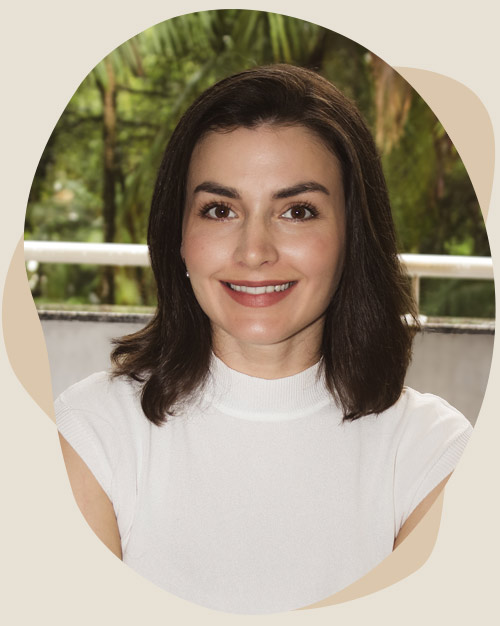
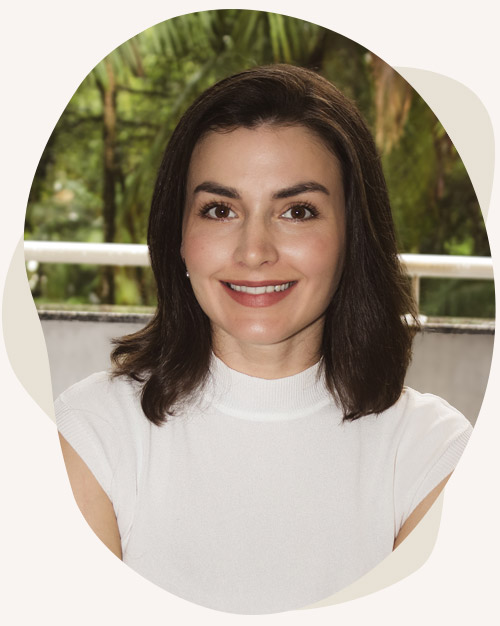
Update

Changed region(s): [[0.0, 0.0, 1.0, 1.0]]

diff --git a/index.html b/index.html
@@ -353,29 +353,29 @@
                     </div>
                     <div class="feed-container">
                         <div class="post">
-                            <a id="Post_evitar_situacoes" href="https://www.instagram.com/p/C6JQooOL71t" target="_blank" rel="noopener noreferrer nofollow" title="Post instagram terapia - Se você sofre de ansiedade provavelmente já evitou alguma dessas situações">
-                                <img src="instagram_posts/evitar_situacoes_ansiedade_terapia.jpg" alt="Se você sofre de ansiedade provavelmente já evitou alguma dessas situações" title="Post instagram terapia - Se você sofre de ansiedade provavelmente já evitou alguma dessas situações">
+                            <a id="Post_ansiedade_social" href="https://www.instagram.com/p/DHlO9xEOfz7" target="_blank" rel="noopener noreferrer nofollow" title="Post instagram terapia - Parece antipatia, mas pode ser Ansiedade Social">
+                                <img src="instagram_posts/ansiedade_social_terapia.jpg" alt="Parece antipatia, mas pode ser Ansiedade Social" title="Post instagram terapia - Parece antipatia, mas pode ser Ansiedade Social">
                                 <div class="post-caption">
-                                    <p>Essas são apenas algumas situações comuns em que a ansiedade pode impactar a vida das pessoas, mas é importante lembrar que cada indivíduo pode ter experiências únicas e desafios específicos relacionados à ansiedade....</p>
-                                    <a id="Post_evitar_situacoes" href="https://www.instagram.com/p/C6JQooOL71t" class="btn btn--primary" target="_blank" rel="noopener noreferrer nofollow" title="Continue lendo no Instagram">Continue lendo no Instagram</a>
+                                    <p>Atitudes que podem parecer antipatia ou indiferença muitas vezes podem ser por causa da ansiedade social. Atender uma ligação, responder mensagens ou cumprimentar alguém pode ser um grande desafio...</p>
+                                    <a id="Post_ansiedade_social" href="https://www.instagram.com/p/DHlO9xEOfz7" class="btn btn--primary" target="_blank" rel="noopener noreferrer nofollow" title="Continue lendo no Instagram">Continue lendo no Instagram</a>
                                 </div>
                             </a>
                         </div>
                         <div class="post">
-                            <a id="Post_respiracao_diafragmatica" href="https://www.instagram.com/p/C6D8w6BrxYs/" target="_blank" rel="noopener noreferrer nofollow" title="Post instagram terapia - Respiração Diafragmática">
-                                <img src="instagram_posts/respiracao_diafragmatica_terapia.jpg" alt="Respiração Diafragmática" title="Post instagram terapia - Respiração Diafragmática">
+                            <a id="Post_ataque_de_panico" href="https://www.instagram.com/p/DHEN_G-uRXz/" target="_blank" rel="noopener noreferrer nofollow" title="Post instagram terapia - Ataque de pânico">
+                                <img src="instagram_posts/ataque_de_panico_terapia.jpg" alt="Você já sentiu medo de desmaiar durante um ataque de pânico?" title="Post instagram terapia - Ataque de pânico">
                                 <div class="post-caption">
-                                    <p>A respiração diafragmática, também conhecida como respiração abdominal, envolve a utilização do diafragma, o músculo localizado abaixo dos pulmões, para respirar de forma mais profunda e consciente. Ao contrário da respiração superficial, que é comum durante...</p>
-                                    <a id="Post_respiracao_diafragmatica" href="https://www.instagram.com/p/C6D8w6BrxYs/" class="btn btn--primary" target="_blank" rel="noopener noreferrer nofollow" title="Continue lendo no Instagram">Continue lendo no Instagram</a>
+                                    <p>A tontura durante um ataque de pânico pode ser intensa e trazer a sensação de que você pode desmaiar. Mas, apesar do medo, isso é algo raro de acontecer. Isso acontece por causa da hiperventilação, que é quando a respiração fica rápida e superficial. Durante a crise, é comum respirar mais...</p>
+                                    <a id="Post_ataque_de_panico" href="https://www.instagram.com/p/DHEN_G-uRXz/" class="btn btn--primary" target="_blank" rel="noopener noreferrer nofollow" title="Continue lendo no Instagram">Continue lendo no Instagram</a>
                                 </div>
                             </a>
                         </div>
                         <div class="post">
-                            <a id="Post_impedido_de_fazer" href="https://www.instagram.com/p/C58anH4rDC-/" target="_blank" rel="noopener noreferrer nofollow" title="Post instagram terapia - O que a ansiedade tem te impedido de fazer?">
-                                <img src="instagram_posts/ansiedade_impedindo_fazer_terapia.jpg" alt="O que a ansiedade tem te impedido de fazer?" title="Post instagram terapia - O que a ansiedade tem te impedido de fazer?">
+                            <a id="Post_imaginando_o_pior" href="https://www.instagram.com/p/DFX29EyRqWc/" target="_blank" rel="noopener noreferrer nofollow" title="Post instagram terapia - Você fica sempre imaginando que o pior vai acontecer?">
+                                <img src="instagram_posts/imaginando_o_pior_terapia.jpg" alt="Você fica sempre imaginando que o pior vai acontecer?" title="Post instagram terapia - Você fica sempre imaginando que o pior vai acontecer?">
                                 <div class="post-caption">
-                                    <p>Hoje quero te desafiar a olhar para as oportunidades que a ansiedade pode estar roubando de você. Pare um momento e pense nisso. Quantas vezes você deixou a ansiedade ditar suas decisões? Quantas oportunidades você deixou escapar porque o ...</p>
-                                    <a id="Post_impedido_de_fazer" href="https://www.instagram.com/p/C58anH4rDC-/" class="btn btn--primary" target="_blank" rel="noopener noreferrer nofollow" title="Continue lendo no Instagram">Continue lendo no Instagram</a>
+                                    <p>Ficar imaginando o pior não previne que ele aconteça, mas pode te fazer sofrer de forma desnecessária por algo que talvez nunca se concretize. Às vezes, pensar em cenários negativos parece uma forma de se preparar para o futuro, mas, na...</p>
+                                    <a id="Post_imaginando_o_pior" href="https://www.instagram.com/p/DFX29EyRqWc/" class="btn btn--primary" target="_blank" rel="noopener noreferrer nofollow" title="Continue lendo no Instagram">Continue lendo no Instagram</a>
                                 </div>
                             </a>
                         </div>

diff --git a/css/styles.css b/css/styles.css
@@ -30,9 +30,9 @@
    * color-4(#dbc7ad) Bege
    */
 	--color-1: hsla(5, 50%, 53%, 1);
-	--color-2: hsla(40, 28%, 87%, 1);
+	--color-2: hsla(23, 40%, 96%, 1);
 	--color-3: hsla(199, 26%, 23%, 1);
-	--color-4: hsla(33,39%,77%,1);
+	--color-4: hsla(40, 28%, 87%, 1);
 
   /* theme color variations
    */
@@ -123,7 +123,7 @@
 
   /* preloader
    */
-	--color-preloader-bg           : var(--color-2-dark);
+	--color-preloader-bg           : var(--color-2);
 	--color-loader                 : var(--color-white);
 	--color-loader-light           : var(--color-2-light);
 
@@ -4520,7 +4520,7 @@ h2.s-intro__content-title {
 #instagram .feed-container {
     display: grid;
     grid-template-columns: repeat(3, 1fr);
-    gap: 2px;
+    gap: 16px;
     margin-top: 40px;
 }
 
@@ -4541,6 +4541,7 @@ h2.s-intro__content-title {
   	overflow: hidden;
   	height: fit-content;
   	box-shadow: 0 60px 20px -50px rgb(0 0 0 / 20%);
+		border-radius: 8px;
 }
 
 #instagram .post > a{
@@ -4556,6 +4557,7 @@ h2.s-intro__content-title {
 	background-color: #182227f7;
 	padding: 30px;
 	transition: .8s;
+	border-radius: 8px;
 }
 
 #instagram .post:hover .post-caption{
